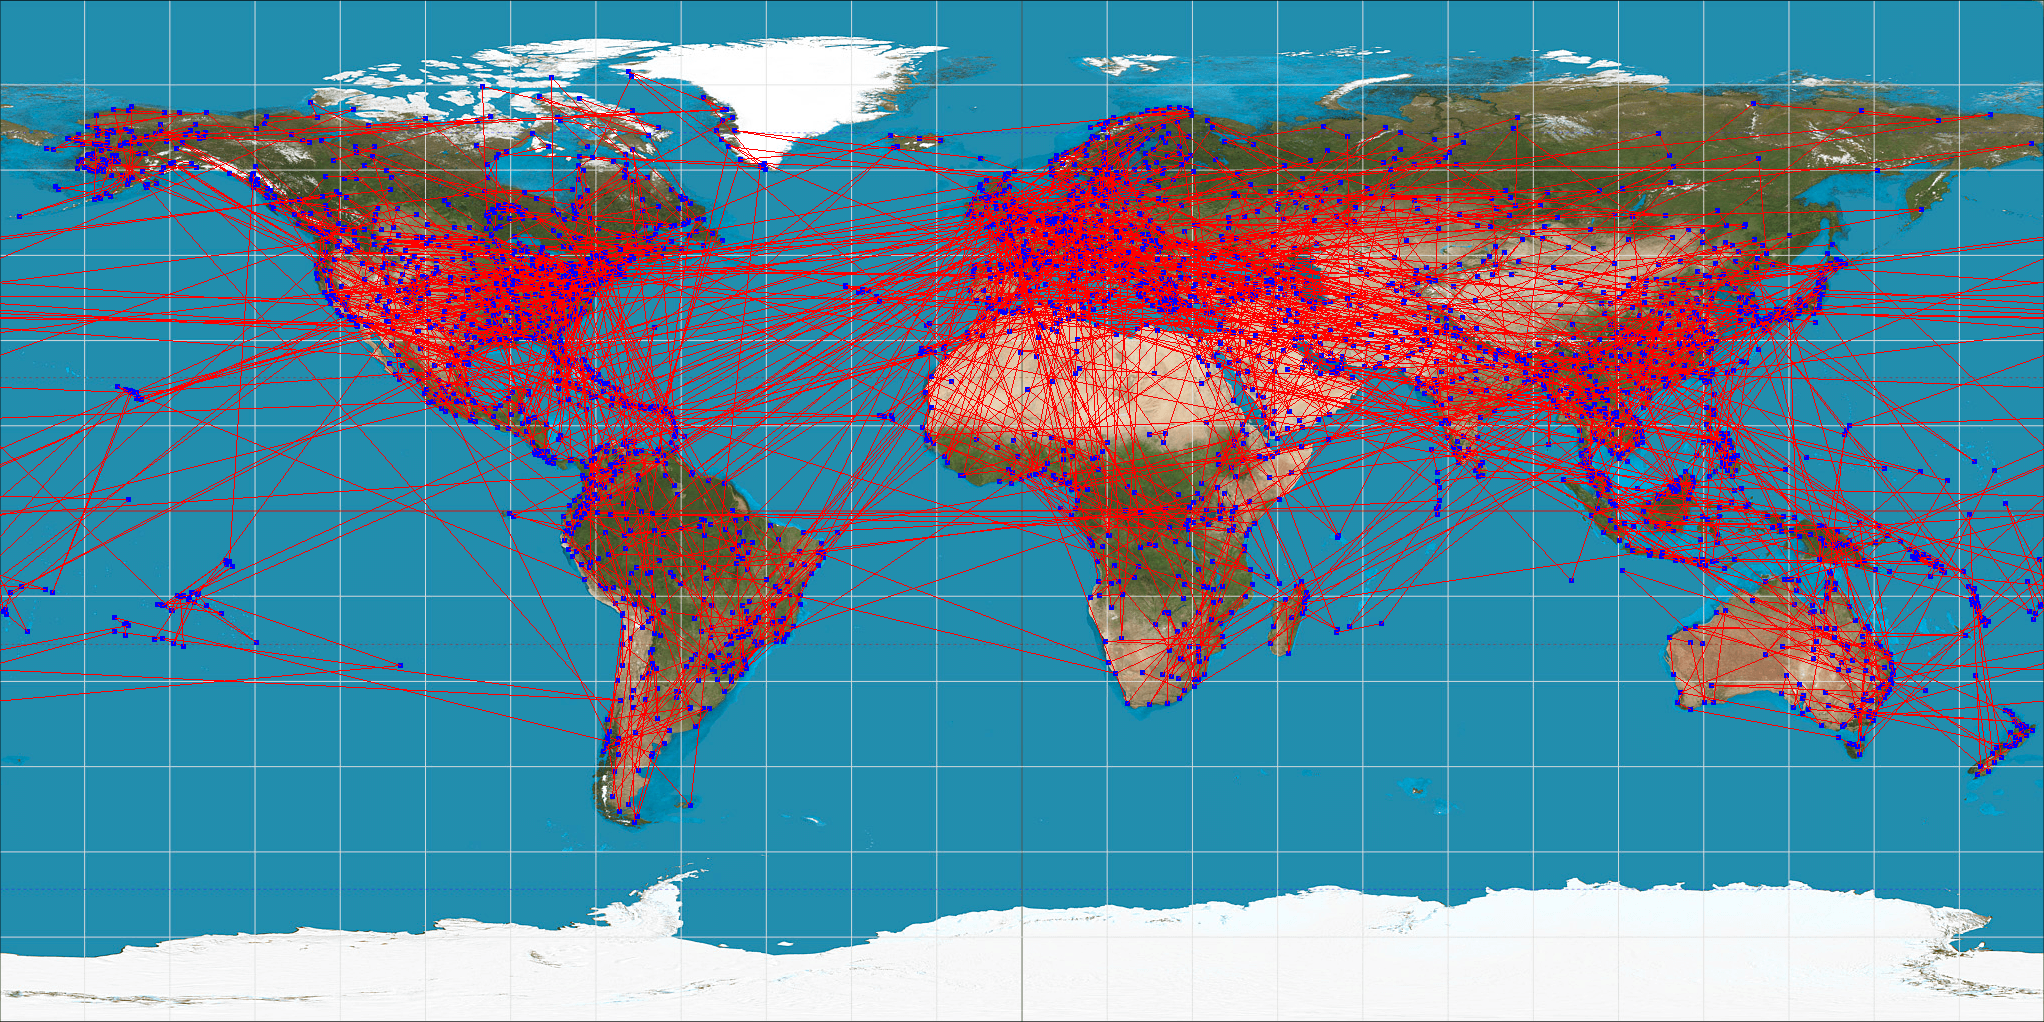
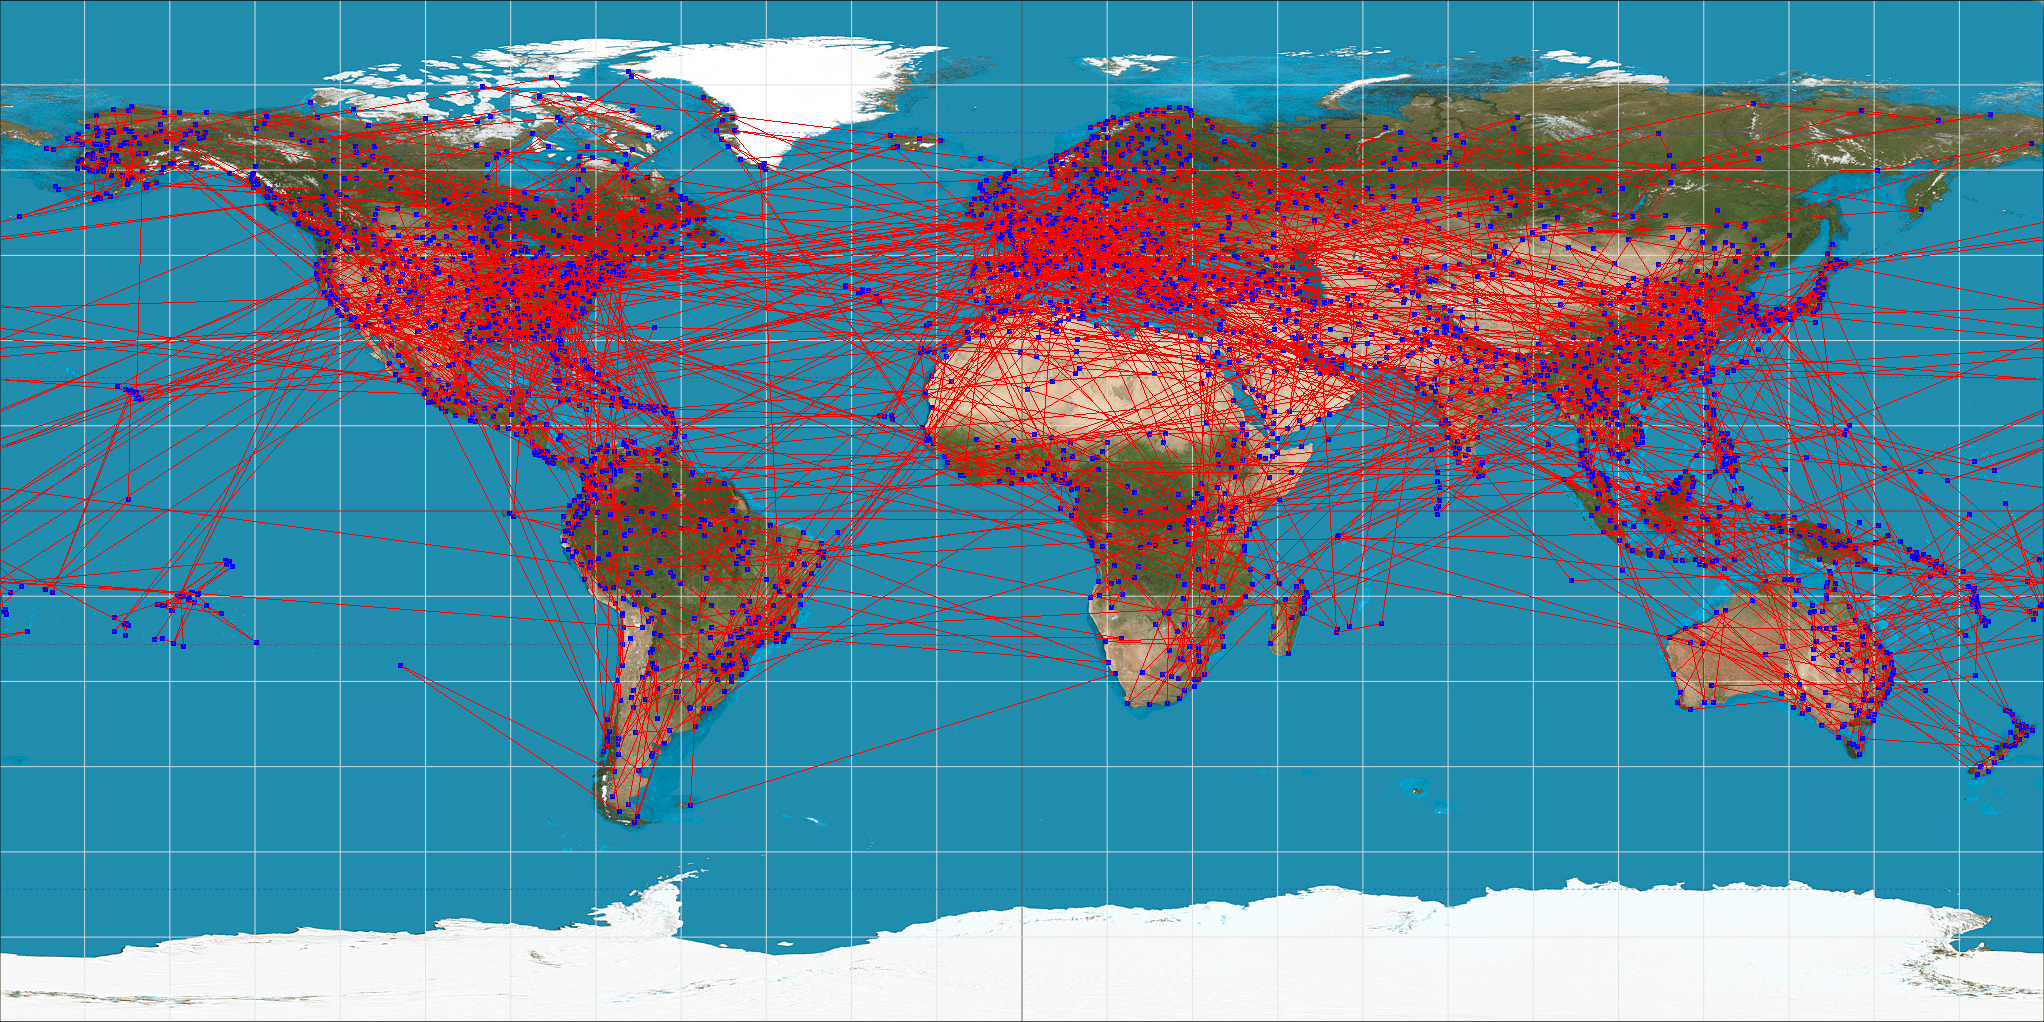
Change main.cpp

diff --git a/main.cpp b/main.cpp
@@ -12,76 +12,25 @@ using namespace std;
 
 int main()
 {
-    // Write your own main here
-    Graph g("data/routes.dat", "data/airports.dat"); //try create a Graph object
-    //Graph g("route_testcase_1.dat", "Airport_testcase_1.dat");
-    
-    //Graph g2;
-    //cout << "Add your own tests here! Modify main.cpp" << endl;
-    string id = "3364";
-    //cout<<g.getVertex(id).vertex_id;
-    //cout<<" ";
-    Graph::Vertex v(id);
-    Graph::Edge e("3364", "3366", 1046.256371);
-    //g.insertVertex(v);
-    //cout<<g.getFirstVertex().vertexToString();
-    vector<Graph::Vertex> vs = g.getAdjacentVertex(v);
-    vector<Graph::Edge> es = g.getIncidentEdge(v);
-    cout<<id;
-    cout<<": ";
-    for (auto it = es.begin(); it != es.end(); ++it) {
-        //cout<<(*it).vertexToString();
-        cout<<(*it).edgeToString();
-        cout<<" -> ";
-    }
-    cout<<""<<endl;
-    g.removeEdge(e);
-    es = g.getIncidentEdge(v);
-    cout<<id;
-    cout<<": ";
-    for (auto it = es.begin(); it != es.end(); ++it) {
-        //cout<<(*it).vertexToString();
-        cout<<(*it).edgeToString();
-        cout<<" -> ";
-    }
-    cout<<""<<endl;
-    g.removeEdge(e);
-    g.insertEdge(e);
-    es = g.getIncidentEdge(v);
-    cout<<id;
-    cout<<": ";
-    for (auto it = es.begin(); it != es.end(); ++it) {
-        //cout<<(*it).vertexToString();
-        cout<<(*it).edgeToString();
-        cout<<" -> ";
-    }
-    
-    //test draw functions 
-    Draw draw;
-    PNG * graph = draw.open();
-
+    string airportsDir = "data/airports.dat";
+    string routesDir = "data/routes.dat";
+    //Create a Graph object
+    Graph g(routesDir, airportsDir);
+    //BFS start airport id
+    string bfsStartId = "1555";
+    Graph::Vertex bfsStartTemp = g.getVertex(bfsStartId);
+    Graph::Vertex bfsStart(bfsStartId, bfsStartTemp.latitude, bfsStartTemp.longitude);
     Functions func;
-    vector<Graph::Vertex> list = func.BFS(g);
-    vector<string> str_list;
-    for (size_t i = 0; i < list.size(); i++) {
-        str_list.push_back(list[i].vertex_id);
-        cout << list[i].vertex_id << " ";
-    }
-    cout << endl;
+
+    //BFS and draw traversed edges and vertices on a map
+    vector<Graph::Vertex> list = func.BFS(g, bfsStart);
+    cout << "BFS traversal result:"<<endl;
+    cout << "first visited: " + (*(list.begin())).vertex_id <<endl;
+    cout << "last visited: " + (*(list.end() - 1)).vertex_id <<endl;
     cout << "BFS size is " << list.size() << endl;
 
-    //test drawmap
-    Graph::Vertex YYC("178", 51.113899231, -114.019996643);
-    Graph::Vertex FCO("1555", 41.8002778, 12.2388889);
-    Graph::Vertex PEK("3364",40.080101013183594,116.58499908447266);
-    Graph::Vertex CGO("3375",34.519699096699995,113.841003418);
-    Graph::Vertex ORD("3830",41.9786,-87.9048);
-    // map<string, string> theMap = func.Dijkstra(g, CGO, ORD);
-    // cout << theMap.size() << endl;
-    draw.drawmap("data/routes.dat", "data/airports.dat", CGO, ORD);
-
-    Draw draw_2;
-    PNG * graph_2 = draw_2.open();
+    Draw drawBFS;
+    PNG * all_airlines = drawBFS.open();
     for (size_t i = 0; i < list.size() - 1; i++) {
         Graph::Vertex first = list[i];
         Graph::Vertex second = list[i+1];
@@ -89,12 +38,28 @@ int main()
         double y_1 = first.longitude;
         double x_2 = second.latitude;
         double y_2 = second.longitude;
-        draw.drawpoint(graph_2, x_1, y_1);
-        draw.drawpoint(graph_2, x_2, y_2);
-        draw.drawline(graph_2, x_1, y_1, x_2, y_2);
+        drawBFS.drawpoint(all_airlines, x_1, y_1);
+        drawBFS.drawpoint(all_airlines, x_2, y_2);
+        drawBFS.drawline(all_airlines, x_1, y_1, x_2, y_2);
     }
     
-    graph_2->writeToFile("all_airlines.png");
+    all_airlines->writeToFile("all_airlines.png");
 
+    //Find the shortest path between two airports and draw it on a map
+    Draw drawPath;
+    PNG * shortestPath = drawPath.open();
+    //id of the start airport, change this if you want to use other start airport
+    string startId = "2188";
+    //id of the end airport, change this if you want to use other start airport
+    string endId = "3830";
+    Graph::Vertex startTemp = g.getVertex(startId);
+    Graph::Vertex endTemp = g.getVertex(endId);
+    Graph::Vertex start(startId, startTemp.latitude, startTemp.longitude);
+    Graph::Vertex end(endId, endTemp.latitude, endTemp.longitude);
+    if (g.getAdjacentVertex(start).size() < 1 || g.getAdjacentVertex(end).size() < 1) {
+        cout<<"invalid airport id, please choose airports that have route to other airports."<<endl;
+        return 0;
+    }
+    drawPath.drawmap(routesDir, airportsDir, start, end);
     return 0;
 }
